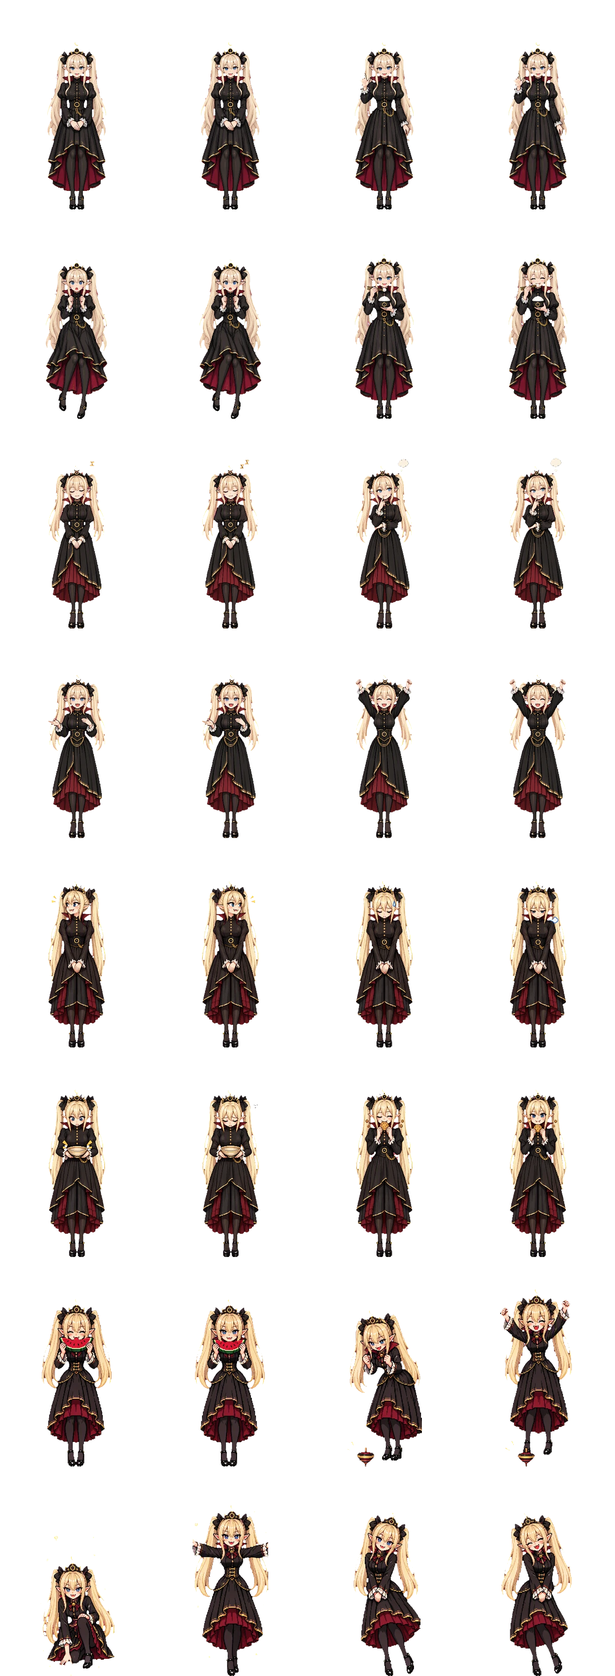
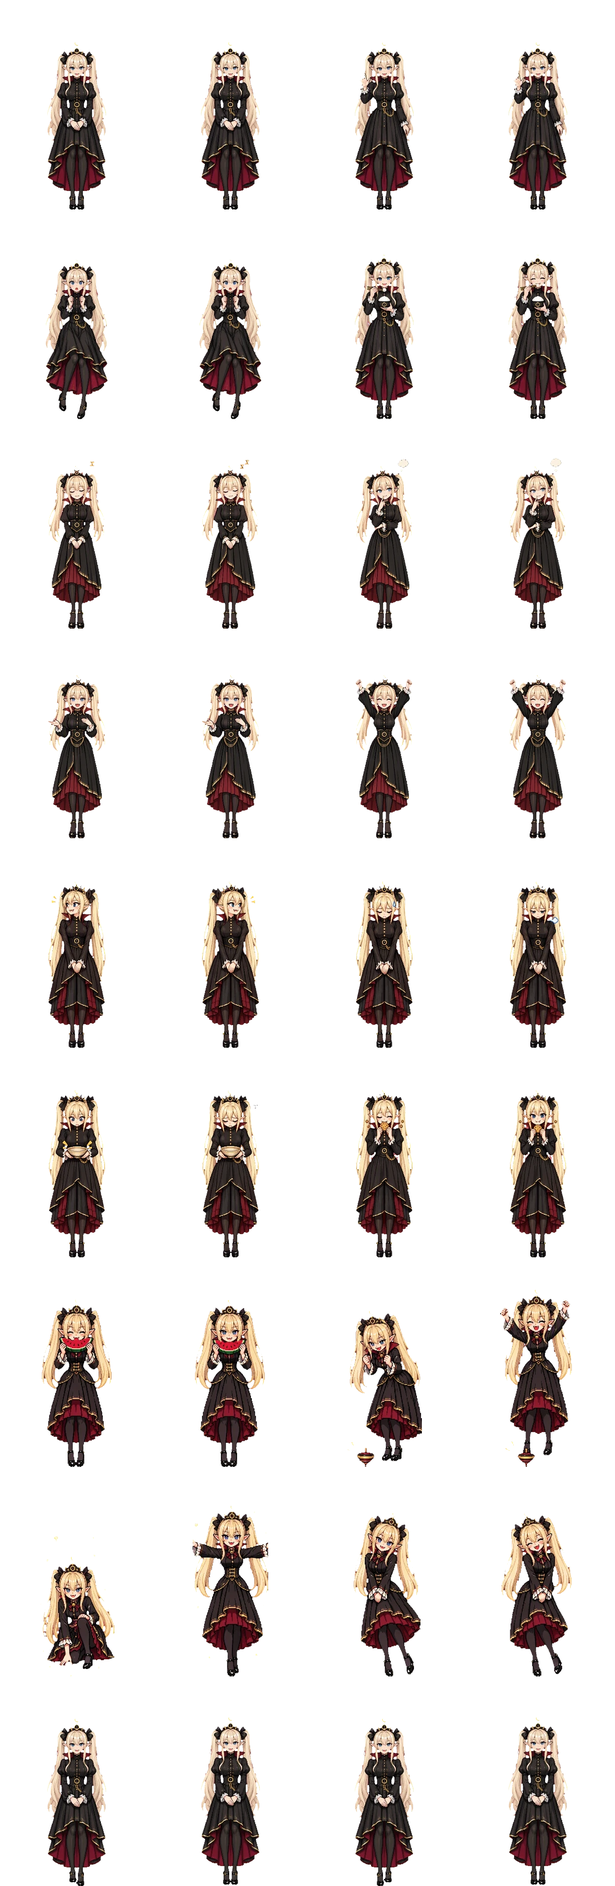
✨ feat(art): a real step cycle when she walks
Walking used to slide the idle pose along with a hop and a 👣. Every built-in
sprite pack (pixel and classic) now has a 4-frame `walk` action in a 9th row,
made from the idle art by scripts/art/add_walk_frames.py: the legs under the
hem are split at the gap between them, and the frames lift the left foot,
bring both down, lift the right foot, bring both down. The CSS hop stays only
for looks without walk frames.

diff --git a/test/packs.test.js b/test/packs.test.js
@@ -40,11 +40,10 @@ test('the model-chan pixel packs are schema 2 and animate every state of the sha
     const px = packs.get(id);
     assert.equal(px.schema, 2);
     assert.equal(px.kind, 'sprites');
-    // every state but `walk`: a sprite character walks with her idle frames hopping along (style.css)
-    const own = STATES.filter((st) => st !== 'walk');
-    assert.deepEqual(Object.keys(px.actions).sort(), [...own].sort(), `${id} animates every state`);
-    for (const st of own) assert.equal(resolveAction(st, (n) => !!px.actions[n]).exact, true, `${id}/${st}`);
-    assert.deepEqual(resolveAction('walk', (n) => !!px.actions[n]), { name: 'idle', exact: false });
+    // `walk` included: a 4-frame step cycle made from her idle art (scripts/art/add_walk_frames.py)
+    assert.deepEqual(Object.keys(px.actions).sort(), [...STATES].sort(), `${id} animates every state`);
+    for (const st of STATES) assert.equal(resolveAction(st, (n) => !!px.actions[n]).exact, true, `${id}/${st}`);
+    assert.deepEqual(px.actions.walk, { row: 8, col: 0, frames: 4, fps: 8 }, 'a step cycle, not the idle art sliding along');
     assert.deepEqual(px.frame, { width: 332, height: 452 }, 'HD frames');
     assert.equal(px.pixelated, false, 'drawn smoothed, not as blocks');
     assert.match(px.outfits.daily, /\.webp$/);
@@ -80,7 +79,7 @@ test('every character keeps her v0.7.0 pixels as a 旧版像素 pack she can swi
     assert.equal(old.species, id);
     assert.match(old.name, /旧版像素$/);
     assert.deepEqual(old.frame, { width: 83, height: 113 }, 'the v0.7.0 frame size');
-    assert.equal(Object.keys(old.actions).length, 16, 'every state animated');
+    assert.equal(Object.keys(old.actions).length, 17, 'every state animated, walking included');
     assert.equal(P.chosenPack(packs, {}, id), `${id}-pixel`, 'not the default');
     assert.equal(P.chosenPack(packs, { [id]: `${id}-classic` }, id), `${id}-classic`);
     assert.equal(P.resolveLook(packs, { packId: `${id}-classic`, fallbackId: `${id}-pixel`, speciesId: id, outfitId: 'daily' }).packId, `${id}-classic`);

diff --git a/e2e/run.js b/e2e/run.js
@@ -2004,9 +2004,19 @@ async function rosterOne(ch) {
       await page.waitForTimeout(200); // the next frame draws it
       const ws = await fxState();
       const st = ws.video ? `state=walk clip=${await clip()}.webm` : `state=walk action=${ws.action} exact=${ws.exact} overlay ${await page.textContent('#char-fx')}`;
+      let steps = '';
       if (ws.video) assert.equal(await clip(), 'walk');
-      else assert.equal(await page.textContent('#char-fx'), '👣');
-      await page.waitForTimeout(900);
+      else {
+        // her own step cycle (scripts/art/add_walk_frames.py), not the idle art sliding along
+        assert.equal(ws.action, 'walk');
+        assert.equal(ws.exact, true);
+        assert.equal(await page.textContent('#char-fx'), '');
+        const seen = new Set();
+        for (let i = 0; i < 8; i++) { seen.add(await page.$eval('#pet-look canvas', (c) => c.dataset.frame.split('#')[1])); await page.waitForTimeout(70); }
+        assert.ok(seen.size >= 3, `the walk frames play: ${[...seen]}`);
+        steps = `, frames ${[...seen].sort().join(' ')}`;
+      }
+      await page.waitForTimeout(400);
       await page.screenshot({ path: path.join(OUT, `${S}-walk.png`) });
       await walking;
       const after = await mainBounds();
@@ -2014,7 +2024,7 @@ async function rosterOne(ch) {
       assert.notEqual(after.x, before.x, 'the window moved');
       assert.equal(after.x, w.to);
       assert.ok(Math.abs(after.x - before.x) >= 60 && Math.abs(after.x - before.x) <= 240 * 2);
-      return `${st}; window x ${before.x} → ${after.x} (facing ${w.facing})${(await fxState()).video ? '' : ', idle frames hop + 👣'}`;
+      return `${st}; window x ${before.x} → ${after.x} (facing ${w.facing})${steps}`;
     }, page);
     await step(S, 'N2 touch: a long press on her opens the menu', async () => {
       await idle();

diff --git a/src/renderer/style.css b/src/renderer/style.css
@@ -269,7 +269,8 @@ canvas.sprite { object-fit: contain; }
 #main-menu { max-height: calc(100vh - 56px); overflow-y: auto; }
 
 /* ---- dsh-pet effects: walking, catching a flying pet, memes, behaviour settings, visitors ---- */
-.char-wrap[data-status="walk"] .char { animation: char-walk .36s steps(2) infinite; }
+/* a look without its own walk frames (a pictures pack, an older user pack) hops its idle art along */
+.pet-body[data-exact="no"] .char-wrap[data-status="walk"] .char { animation: char-walk .36s steps(2) infinite; }
 @keyframes char-walk { 0%, 100% { transform: translateY(0) rotate(-2deg); } 50% { transform: translateY(-4px) rotate(2deg); } }
 .score-pop { position: absolute; left: 50%; top: 12%; z-index: 4; transform: translateX(-50%); font-size: 22px; font-weight: bold; line-height: 1; color: #ffd23f; -webkit-text-stroke: 1.5px #2b2233; text-shadow: 2px 2px 0 #2b2233; pointer-events: none; animation: score-up 1.5s ease-out forwards; }
 @keyframes score-up { from { opacity: 1; transform: translate(-50%, 0) scale(.7); } 20% { transform: translate(-50%, -8px) scale(1.25); } to { opacity: 0; transform: translate(-50%, -46px) scale(1); } }

diff --git a/src/core/fx.js b/src/core/fx.js
@@ -34,7 +34,7 @@
     hatch: 'happy',
     evolve: 'happy',
     lifted: 'pat',
-    walk: 'idle', // no walking art: the idle art hops along (style.css [data-status="walk"])
+    walk: 'idle', // no walking art (the built-in packs have a step cycle): the idle art hops along (style.css [data-status="walk"])
   };
 
   // The chain of names tried for `state`, best first; always ends with idle.

diff --git a/scripts/art/add_walk_frames.py b/scripts/art/add_walk_frames.py
@@ -1,0 +1,115 @@
+# Give a model-chan sprite pack a `walk` action: a 4-frame step cycle made from its idle art, so walking
+# is more than the window sliding the standing pose along. The legs under the hem are found in the first
+# idle frame (the transparent gap between them), and each frame lifts one leg (squashed up under the skirt,
+# so the foot leaves the ground) or brings both down with the whole figure a little higher:
+#   left foot up · both down (up a bit) · right foot up · both down (up a bit)
+# The frames go in a new row under the sheet (every outfit sheet of the pack) and pack.json gets
+# "walk": {row, col 0, frames 4, fps 8}. Running it again rebuilds that row.
+# usage: add_walk_frames.py <pack dir> [<pack dir> ...]
+import json, os, sys
+import numpy as np
+from PIL import Image
+
+FPS = 8
+
+
+def find_legs(a):
+    # a: alpha (H x W, bool) of the idle frame -> (hem row, bottom row, gap column per row from hem to bottom)
+    H, W = a.shape
+    rows = np.where(a.any(axis=1))[0]
+    bottom = int(rows[-1])
+    top = int(rows[0])
+    band = a[max(top, bottom - (bottom - top) // 6):bottom + 1]
+    cx = int(round(np.where(band)[1].mean()))
+    reach = max(3, W // 14)
+
+    def gap_at(y, near):
+        # the transparent column nearest `near` with the figure on both sides of it in row y
+        xs = np.where(a[y])[0]
+        if len(xs) < 2: return None
+        for d in range(reach + 1):
+            for x in (near - d, near + d):
+                if xs[0] < x < xs[-1] and not a[y, x]: return x
+        return None
+
+    # start a little above the soles (shoes may touch) and follow the gap up to where the skirt closes it
+    start = bottom - max(2, (bottom - top) // 40)
+    x0 = None
+    for y in range(start, start - max(4, (bottom - top) // 10), -1):
+        x0 = gap_at(y, cx)
+        if x0 is not None:
+            start = y
+            break
+    if x0 is None: raise SystemExit('no gap between the legs found')
+    gaps = {}
+    x, y = x0, start
+    while y > top:
+        g = gap_at(y, x)
+        if g is None or abs(g - x) > 2: break
+        gaps[y] = x = g
+        y -= 1
+    hem = y + 1
+    for yy in range(start + 1, bottom + 1): gaps[yy] = x0
+    return hem, bottom, gaps, reach * 3
+
+
+def walk_frames(frame, smooth):
+    rgba = np.array(frame)
+    a = rgba[:, :, 3] > 40
+    H, W = a.shape
+    hem, bottom, gaps, half = find_legs(a)
+    L = bottom - hem + 1
+    lift = max(2, round(L * 0.2))
+    bob = max(1, round(H * 0.006))
+    left = np.zeros_like(rgba); right = np.zeros_like(rgba)
+    body = rgba.copy()
+    for y in range(hem, bottom + 1):
+        g = gaps[y]
+        lo, hi = max(0, g - half), min(W, g + half + 1)
+        left[y, lo:g] = rgba[y, lo:g]; right[y, g:hi] = rgba[y, g:hi]
+        body[y, lo:hi] = 0
+    resample = Image.LANCZOS if smooth else Image.NEAREST
+
+    def leg(img, lifted):
+        im = Image.fromarray(img)
+        if not lifted: return im
+        strip = im.crop((0, hem, W, bottom + 1)).resize((W, L - lift), resample)
+        out = Image.new('RGBA', (W, H), (0, 0, 0, 0))
+        out.paste(strip, (0, hem))
+        return out
+
+    def compose(lift_left, lift_right, dy):
+        out = Image.new('RGBA', (W, H), (0, 0, 0, 0))
+        for layer in (leg(left, lift_left), leg(right, lift_right), Image.fromarray(body)):
+            out.alpha_composite(layer, (0, -dy) if dy else (0, 0))
+        return out
+
+    return [compose(True, False, 0), compose(False, False, bob), compose(False, True, 0), compose(False, False, bob)], (hem, bottom, lift)
+
+
+def add_walk(pack_dir):
+    pf = os.path.join(pack_dir, 'pack.json')
+    pack = json.load(open(pf))
+    FW, FH = pack['frame']['width'], pack['frame']['height']
+    idle = pack['actions']['idle']
+    old = pack['actions'].get('walk')
+    for rel in sorted(set(pack['outfits'].values())):
+        path = os.path.join(pack_dir, rel)
+        sheet = Image.open(path).convert('RGBA')
+        rows = old['row'] if old else sheet.height // FH
+        frame = sheet.crop((idle['col'] * FW, idle['row'] * FH, (idle['col'] + 1) * FW, (idle['row'] + 1) * FH))
+        frames, info = walk_frames(frame, not pack.get('pixelated'))
+        out = Image.new('RGBA', (max(sheet.width, FW * 4), FH * (rows + 1)), (0, 0, 0, 0))
+        out.paste(sheet.crop((0, 0, sheet.width, FH * rows)), (0, 0))
+        for i, f in enumerate(frames): out.paste(f, (i * FW, rows * FH))
+        if path.endswith('.webp'): out.save(path, 'WEBP', quality=92, method=6, alpha_quality=100)
+        else: out.save(path, optimize=True)
+        print(f'{path}: walk row {rows}, legs rows {info[0]}-{info[1]}, lift {info[2]} px')
+    pack['actions']['walk'] = {'row': rows, 'col': 0, 'frames': 4, 'fps': FPS}
+    with open(pf, 'w') as f:
+        json.dump(pack, f, ensure_ascii=False, indent=2); f.write('\n')
+
+
+if __name__ == '__main__':
+    if len(sys.argv) < 2: raise SystemExit(__doc__ or 'usage: add_walk_frames.py <pack dir> [...]')
+    for d in sys.argv[1:]: add_walk(d)

diff --git a/scripts/art/check_model_chan.py b/scripts/art/check_model_chan.py
@@ -1,12 +1,12 @@
 # Check the model-chan pixel packs (src/renderer/packs/*-pixel, schema 2) and print one line per action.
-# Passes when every sheet is an RGBA PNG or WebP of 4 x 8 cells of 332 x 452 (the HD packs), every state of the shared effects
-# layer (16) has an action, and every frame of every action has a visible figure.
+# Passes when every sheet is an RGBA PNG or WebP of 4 x 9 cells of 332 x 452 (the HD packs), every state of the shared effects
+# layer (17, `walk` from add_walk_frames.py in the 9th row) has an action, and every frame of every action has a visible figure.
 # usage: check_model_chan.py [repo root]
 import json, os, sys
 from PIL import Image
 
 root = sys.argv[1] if len(sys.argv) > 1 else os.path.join(os.path.dirname(os.path.abspath(__file__)), '..', '..')
-STATES = ['idle', 'look', 'happy', 'pat', 'sad', 'hungry', 'sleep', 'eat_rice', 'eat_cookie', 'eat_fruit', 'think', 'talk', 'play', 'hatch', 'evolve', 'lifted']
+STATES = ['idle', 'look', 'happy', 'pat', 'sad', 'hungry', 'sleep', 'eat_rice', 'eat_cookie', 'eat_fruit', 'think', 'talk', 'play', 'hatch', 'evolve', 'lifted', 'walk']
 FW, FH = 332, 452
 packs_dir = os.path.join(root, 'src/renderer/packs')
 bad = 0
@@ -14,7 +14,7 @@ for pid in sorted(p for p in os.listdir(packs_dir) if p.endswith('-pixel')):
     d = os.path.join(packs_dir, pid)
     pack = json.load(open(os.path.join(d, 'pack.json')))
     im = Image.open(os.path.join(d, pack['outfits']['daily']))
-    ok = pack['schema'] == 2 and im.format in ('PNG', 'WEBP') and im.mode == 'RGBA' and im.size == (FW * 4, FH * 8) and (pack['frame']['width'], pack['frame']['height']) == (FW, FH)
+    ok = pack['schema'] == 2 and im.format in ('PNG', 'WEBP') and im.mode == 'RGBA' and im.size == (FW * 4, FH * 9) and (pack['frame']['width'], pack['frame']['height']) == (FW, FH)
     bad += not ok
     print(f"{pid}: schema {pack['schema']} {im.format} {im.mode} {im.size} {'OK' if ok else 'MISMATCH'}")
     a = im.getchannel('A')

diff --git a/scripts/art/build_model_chan_pack.py b/scripts/art/build_model_chan_pack.py
@@ -1,7 +1,8 @@
 # Build a model-chan sprite pack (schema 2) from its fitted sheets (fit_cells.py output, e.g. 332 x 452 cells,
 # 4 columns): the base sheet (8 states) on top of the extra sheet (8 more), one 664 x 1808 image, with every
 # action named after a state of the shared effects layer (src/core/fx.js STATES). Each sheet may come as
-# two 4 x 2 halves (one per generated image), stacked in order.
+# two 4 x 2 halves (one per generated image), stacked in order. Walking
+# (`walk`, a 9th row) is added afterwards by add_walk_frames.py.
 # usage: build_model_chan_pack.py <base.png | base_a.png base_b.png> <extra.png | extra_a.png extra_b.png> <character id> <pack dir>
 import json, os, sys
 from PIL import Image

diff --git a/docs/characters.md b/docs/characters.md
@@ -13,10 +13,10 @@
 | # | 角色 | 厂商 / 模型 | id | 主题色 | 美术 | 服饰 |
 | --- | --- | --- | --- | --- | --- | --- |
 | 1 | **大肥鱼** Dafeiyu（DeepSeek 娘 · 鲸鱼女仆） | DeepSeek / DeepSeek | `dafeiyu` | `#2C4A8A` | 像素包 `dafeiyu-pixel`（默认）；可换原版 Q 版 21 段透明视频（dsh-pet） | 1 套：招牌女仆装 |
-| 2 | **克洛蒂** Clody（Claude 娘 · 橘发菊纹） | Anthropic / Claude | `claude` | `#C4622D` | 像素包 `claude-pixel`（16 个动作） | 1 套：橘白哥特长裙 |
-| 3 | **格萝可** Groko（Grok 娘 · 黑金吸血鬼） | xAI / Grok | `grok` | `#8E1F33` | 像素包 `grok-pixel`（16 个动作） | 1 套：黑金哥特礼服 |
-| 4 | **杰米** Gemi（Gemini 娘 · 四角星猫耳） | Google / Gemini | `gemini` | `#7B5CD6` | 像素包 `gemini-pixel`（16 个动作） | 1 套：星纹宽袖外披 |
-| 5 | **吉皮缇** Gippity（GPT 娘 · 白龙） | OpenAI / ChatGPT | `gpt` | `#8E7FC8` | 像素包 `gpt-pixel`（16 个动作） | 1 套：白玫瑰立领长裙 |
+| 2 | **克洛蒂** Clody（Claude 娘 · 橘发菊纹） | Anthropic / Claude | `claude` | `#C4622D` | 像素包 `claude-pixel`（17 个动作，含 4 帧步行） | 1 套：橘白哥特长裙 |
+| 3 | **格萝可** Groko（Grok 娘 · 黑金吸血鬼） | xAI / Grok | `grok` | `#8E1F33` | 像素包 `grok-pixel`（17 个动作，含 4 帧步行） | 1 套：黑金哥特礼服 |
+| 4 | **杰米** Gemi（Gemini 娘 · 四角星猫耳） | Google / Gemini | `gemini` | `#7B5CD6` | 像素包 `gemini-pixel`（17 个动作，含 4 帧步行） | 1 套：星纹宽袖外披 |
+| 5 | **吉皮缇** Gippity（GPT 娘 · 白龙） | OpenAI / ChatGPT | `gpt` | `#8E7FC8` | 像素包 `gpt-pixel`（17 个动作，含 4 帧步行） | 1 套：白玫瑰立领长裙 |
 
 五位都是全年龄角色（`adult: false`，设定年龄 25 岁以上）：即使用户确认 18+ 并开启成人向内容，她们也只用全年龄的语气、话题和服饰。
 
@@ -38,7 +38,7 @@
 | 形象设定 | 鲸鱼娘女仆：深蓝渐变浅蓝的及腿长发、环状呆毛、蓝色大眼、带蓝色小蝴蝶结的鲸鱼鳍耳、身后分叉的鲸鱼尾鳍。懒洋洋、嘴硬、爱吃白饭，叫主人“鱼片”，口头禅“咕噜~”。像素包和其他四位一样是成人比例；社区原版的 Q 版（约 3 头身）只保留在可选的原版动画里。只有全年龄内容 |
 | 主题色 | `#2C4A8A` 深海蓝（色板 `#2C4A8A` `#FFFFFF` `#6FA8E8` `#E8D6A0`） |
 | 服饰 | 招牌女仆装：白色泡泡袖衬衫（遮肩）、蓝宝石小领结、金扣深藏青束腰、右下角绣小鲸鱼的白围裙、深藏青外层 + 蓝白竖条纹中层 + 白荷叶边的及踝长裙、白色连裤袜、深藏青玛丽珍鞋。原先的 8 套服饰立绘（针织围巾套装、休闲卫衣等）和她的形象不搭，已经移除；旧存档里穿着这些服饰的会换回招牌女仆装 |
-| 美术 | 21 段透明 webm（`src/renderer/assets/dafeiyu/`：15 个基础状态 + 被拎起 `lifted`、走路 `walk`，以及点击回应变体 `pat_shy`、`pat_pout`、`pat_tickle`、`happy_jump`），在外观里选「大肥鱼 · 原版动画」时播放；默认是像素包 `dafeiyu-pixel`（高清，每帧 332×452，16 个动作 × 2 帧）；「切换角色 → 外观」里还可以选 v0.7.0 的「旧版像素」`dafeiyu-classic` |
+| 美术 | 21 段透明 webm（`src/renderer/assets/dafeiyu/`：15 个基础状态 + 被拎起 `lifted`、走路 `walk`，以及点击回应变体 `pat_shy`、`pat_pout`、`pat_tickle`、`happy_jump`），在外观里选「大肥鱼 · 原版动画」时播放；默认是像素包 `dafeiyu-pixel`（高清，每帧 332×452，16 个动作 × 2 帧 + 4 帧步行）；「切换角色 → 外观」里还可以选 v0.7.0 的「旧版像素」`dafeiyu-classic` |
 | 梗图 / 朗读 | 9 张梗图（dsh-pet）；朗读音调 1.35、语速 1.0 |
 | 素材来源 / 生成方式 | 动画来自 [PC2005-cloud/dsh-pet](https://github.com/PC2005-cloud/dsh-pet)；形象是 DeepSeek 吉祥物的社区二创：原型「溟月」B站 @上善无形，女仆鲸鱼娘设计 B站 @ZipZipPipe，设定参考 ai-chan-sheets `03_DeepSeek娘_鲸鱼娘`。像素版由 **GPT Image 2.5**（`gpt-image-2.5-sunburst`，经 LobeHub）按文字提示词重画，没有逐帧描摹视频 |
 | 许可 | 动画：dsh-pet 素材可开源使用、**禁止商用**；形象 **CC BY-NC-SA 4.0**（`src/renderer/assets/dafeiyu/NOTICE.md`）。像素包同样 **CC BY-NC-SA 4.0** |
@@ -57,7 +57,7 @@
 | 形象设定 | 成年比例：橘色过膝长发、发梢螺旋卷，菊花发饰配黑缎蝴蝶结，琥珀金垂眼。安静、温和、认真，爱读书和写东西，不确定时直说。口头禅“嗯，让我想想。” |
 | 主题色 | `#C4622D` 陶土橘（色板 `#C4622D` `#F4EAD8` `#1E1A18` `#C9A24A`） |
 | 服饰 | 橘白哥特长裙：奶油白高领衬衫、短披肩和橘红长裙 |
-| 美术 | 像素包 `claude-pixel`：schema 2 高清精灵图 1328×3616 WebP（每帧 332×452，平滑绘制），16 个动作 × 2 帧 |
+| 美术 | 像素包 `claude-pixel`：schema 2 高清精灵图 1328×4068 WebP（每帧 332×452，平滑绘制），16 个动作 × 2 帧 + 4 帧步行 |
 | 梗图 / 朗读 | 4 张梗图；朗读音调 1.0、语速 0.92 |
 | 素材来源 / 生成方式 | 身份锚点（发型、配色、服饰、标志物）取自 [lmy414/ai-chan-sheets](https://github.com/lmy414/ai-chan-sheets) `设定图/11_Claude娘_Anthropic`；原设 ZipZipPipe《AI娘化》p02（[Pixiv 148186519](https://www.pixiv.net/artworks/148186519)，用户素材 [file_5SAeAA60gpeZ](https://app.lobehub.com/f/file_5SAeAA60gpeZ)）。精灵图由 **GPT Image 2.5**（`gpt-image-2.5-sunburst`）按文字提示词生成，`scripts/art/` 像素化 |
 | 许可 | **CC BY-NC-SA 4.0**：署名 ZipZipPipe（原设）、lmy414（设定）、rdmclin2（像素化），禁止商用，改编须同协议 |
@@ -76,7 +76,7 @@
 | 形象设定 | 成年比例：香槟金超长双马尾、黑金小尖冠、蓝宝石眼、精灵尖耳和小尖牙。机灵爱吐槽的友善夜行吸血鬼，嘴上不饶人但心软。口头禅“哈！有意思。” |
 | 主题色 | `#8E1F33` 酒红（色板 `#8E1F33` `#16141A` `#C9A24A` `#F1E2B8`） |
 | 服饰 | 黑金哥特礼服：高领黑色礼服、酒红内衬立领、小尖冠、不透明黑色连裤袜 |
-| 美术 | 像素包 `grok-pixel`：高清精灵图 1328×3616 WebP（每帧 332×452，平滑绘制），16 个动作 × 2 帧 |
+| 美术 | 像素包 `grok-pixel`：高清精灵图 1328×4068 WebP（每帧 332×452，平滑绘制），16 个动作 × 2 帧 + 4 帧步行 |
 | 梗图 / 朗读 | 4 张梗图；朗读音调 1.15、语速 1.12 |
 | 素材来源 / 生成方式 | 设定取自 ai-chan-sheets `设定图/09_Grok娘_xAI`，原设 ZipZipPipe《AI娘化》p07。把原设的露肩礼服、透肉连裤袜和腿环改成高领礼服和不透明连裤袜，不画 X 战斧和 X 字样。**GPT Image 2.5** 生成后像素化 |
 | 许可 | **CC BY-NC-SA 4.0**，署名同上 |
@@ -95,7 +95,7 @@
 | 形象设定 | 成年比例：薰衣草紫过膝长发、卷曲呆毛，紫外粉内的猫耳和蓬松猫尾，异色瞳（品红 / 金），深色发带配四角星发饰。活泼好奇、反应快。口头禅“让我看看！” |
 | 主题色 | `#7B5CD6` 薰衣草紫（色板 `#7B5CD6` `#B9A3F0` `#1E1F4B` `#FFFFFF`） |
 | 服饰 | 星纹宽袖外披：深藏青高领上衣、白底宽袖外披、四角星吊坠飘带和白色荷叶边长裙 |
-| 美术 | 像素包 `gemini-pixel`：高清精灵图 1328×3616 WebP（每帧 332×452，平滑绘制），16 个动作 × 2 帧 |
+| 美术 | 像素包 `gemini-pixel`：高清精灵图 1328×4068 WebP（每帧 332×452，平滑绘制），16 个动作 × 2 帧 + 4 帧步行 |
 | 梗图 / 朗读 | 4 张梗图；朗读音调 1.25、语速 1.08 |
 | 素材来源 / 生成方式 | 设定取自 ai-chan-sheets `设定图/10_Gemini娘`，原设 ZipZipPipe《AI娘化》p04。把原设的露脐上衣、短裤和腿环改成高领上衣、及踝长裙和不透明白色连裤袜；四角星只作纹样，不画 Google 标志或文字。**GPT Image 2.5** 生成后像素化（`fit_cells.py --keep-violet` 保住紫色发色） |
 | 许可 | **CC BY-NC-SA 4.0**，署名同上 |
@@ -114,7 +114,7 @@
 | 形象设定 | 成年比例：纯白及踝超长波浪发、白色环纹龙角、精灵尖耳配淡紫水晶耳坠、淡紫垂眼，白玫瑰绳结发饰；收拢的淡紫小龙翼和白色龙尾。温柔耐心、有问必答，爱把事情列成要点，会拿“重新生成”和“知识截止日期”自嘲。口头禅“好的！很乐意帮忙～” |
 | 主题色 | `#8E7FC8` 淡薰衣草（色板 `#8E7FC8` `#FFFFFF` `#D9D2EE` `#B8BCC6`） |
 | 服饰 | 白玫瑰立领长裙：白色中式立领长袖长裙、宽大荷叶边水袖、银链淡紫水晶腰饰、白玫瑰绳结和不透明的波浪荷叶边长罩衣 |
-| 美术 | 像素包 `gpt-pixel`：高清精灵图 1328×3616 WebP（每帧 332×452，平滑绘制），16 个动作 × 2 帧 |
+| 美术 | 像素包 `gpt-pixel`：高清精灵图 1328×4068 WebP（每帧 332×452，平滑绘制），16 个动作 × 2 帧 + 4 帧步行 |
 | 梗图 / 朗读 | 4 张梗图（很乐意帮忙！、以下是要点、让我重新生成、知识截止到……）；朗读音调 1.1、语速 1.0 |
 | 素材来源 / 生成方式 | 设定取自 ai-chan-sheets `设定图/02_GPT娘_白龙娘`，原设 ZipZipPipe《AI娘化》p03。把原设的露肩、高开衩、腿环和半透明薄纱罩衣改成长袖、闭合的及踝长裙和不透明长罩衣，龙翼画小并收拢；白玫瑰绳结只作饰物，不画 OpenAI 标志或文字。**GPT Image 2.5** 生成后像素化（`slice_sheet.py --octree` 保住白色角色的配色） |
 | 许可 | **CC BY-NC-SA 4.0**，署名同上 |

diff --git a/docs/pet-packs.md b/docs/pet-packs.md
@@ -61,9 +61,10 @@ my-grok/
 | `hatch` | 唤醒、切换到这个角色 | `happy` |
 | `evolve` | 关系升级 | `happy` |
 | `lifted` | 被拖着走、被甩出去的空中 | `pat` |
+| `walk` | 自己走动（窗口沿屏幕平移的同时播放） | `idle`，再加轻微的跳动 |
 
 - **转身**（自播链里的左右镜像）由应用用 CSS 做，不需要单独的图；画了文字或标志、镜像会反字的状态，在角色的 character.json 里列进 `fx.noMirror`。
-- **精灵图排布**：每一帧大小相同（`frame`），第 `row` 行、从第 `col` 列起连续 `frames` 帧。所有服饰的精灵图必须使用同一种排布。内置像素包是 4 列 × 8 行（1328×3616，每帧 332×452，WebP，平滑绘制），每个状态 2 帧。
+- **精灵图排布**：每一帧大小相同（`frame`），第 `row` 行、从第 `col` 列起连续 `frames` 帧。所有服饰的精灵图必须使用同一种排布。内置像素包是 4 列 × 9 行（1328×4068，每帧 332×452，WebP，平滑绘制），每个状态 2 帧，第 9 行是 4 帧的 `walk` 步行循环。
 - `pictures` 类型不需要 `frame` 和 `actions`，动作用轻微的摆动表现。
 - **schema 1**：旧格式的 8 个动作名 `idle / wave / lifted / eat / sleep / think / talk / cheer` 仍然可用，应用把 `pat` 映射到 `wave`，`happy`、`play`、`hatch`、`evolve` 映射到 `cheer`，三种吃饭映射到 `eat`。schema 1 包里不能写 schema 2 的新动作名。
 
@@ -78,6 +79,6 @@ my-grok/
 1. `python3 scripts/art/model_chan_prompts.py` 输出每个角色两条提示词（`<id>_base`、`<id>_extra`，各是 4×4 宫格：8 个状态各 2 帧，纯品红背景）。为了分辨率，每条再按行拆成两半（`_a` 是第 1–2 行，`_b` 是第 3–4 行），每半是 4×2 宫格，详见 [art/model-chan/README.md](../art/model-chan/README.md)。
 2. 用 `lh generate image -m gpt-image-2.5-sunburst -p lobehub "<提示词>"` 生成，每条一张（模型默认画布约 1024×1536，指定尺寸会报错）。
 3. `scripts/art/slice_sheet.py <生成图> <输出.png> 4 2 360 --max 324x444 --smooth`：抠掉背景（品红底或透明底都行）、去掉相邻格子带过来的碎像素，缩成真正的像素画；`scripts/art/fit_cells.py <输入> <输出> --rows 2` 把每格放进 332×452（参数 `332 452`）。
-4. `scripts/art/build_model_chan_pack.py <base_a> <base_b> <extra_a> <extra_b> <角色 id> src/renderer/packs/<角色 id>-pixel --hd`：四张拼成一张 1328×3616 的 WebP（`--hd`：全彩、`pixelated: false`），写出 schema 2 的 `pack.json`；`scripts/art/check_model_chan.py` 检查尺寸和每一帧都有内容。
+4. `scripts/art/build_model_chan_pack.py <base_a> <base_b> <extra_a> <extra_b> <角色 id> src/renderer/packs/<角色 id>-pixel --hd`：四张拼成一张 1328×3616 的 WebP（`--hd`：全彩、`pixelated: false`），写出 schema 2 的 `pack.json`；`scripts/art/add_walk_frames.py src/renderer/packs/<角色 id>-pixel` 用待机帧做出 4 帧步行循环，加在第 9 行；`scripts/art/check_model_chan.py` 检查尺寸和每一帧都有内容。
 
 新角色还需要一份 `src/characters/<id>.json`（字段见现有三个文件；`npm test` 会校验）。然后在应用里导入这个目录，或者打成 `.zip` 发给别人。
